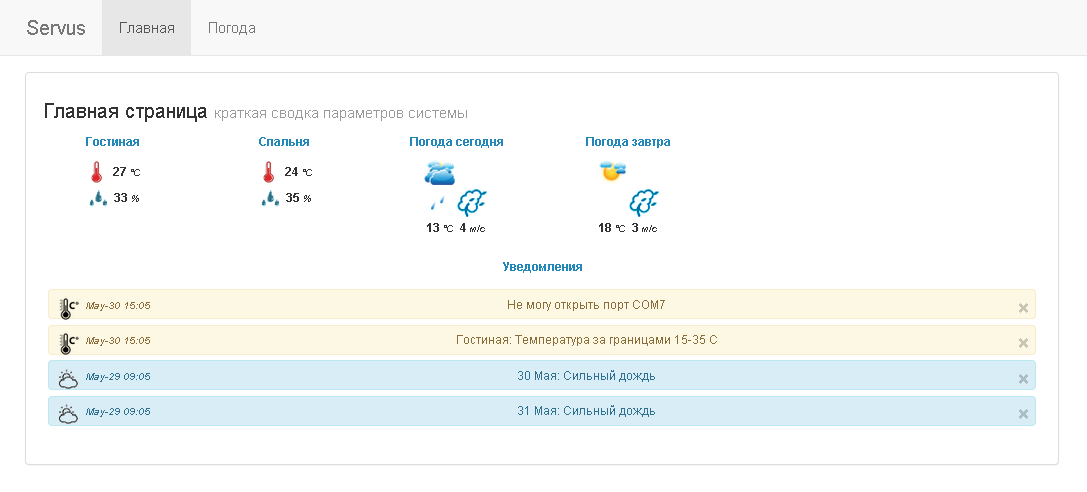
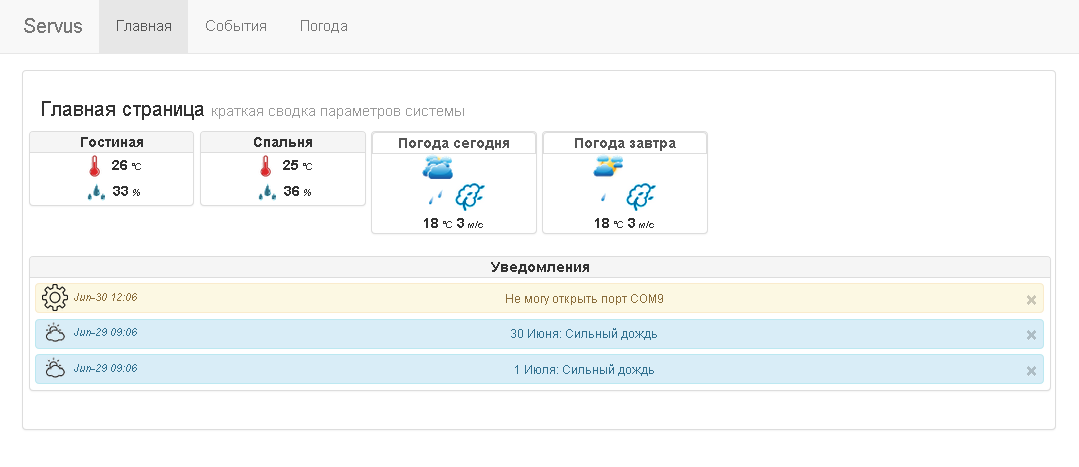
base: В класс UserProfile добавлено поле phone для отправки СМС-оповещений; events: В cron.py добавлен класс SMSSendJob для расслыки СМС-оповещений с помощью сервиса sms.ru. Для рассылки необходимо создать, или дополнить профиль в админке данными с сайта sms.ru: api_id и номер телефона; events: Доба

diff --git a/Servus/events/cron.py b/Servus/events/cron.py
@@ -1,11 +1,33 @@
 # coding=utf-8
 import smtplib
+from urllib2 import urlopen, URLError
 from django.core.mail import EmailMultiAlternatives
 from Servus.settings import EMAIL_HOST_USER
 from Servus.Servus import SITE_NAME
 from base.models import UserProfile
 from base.utils import CJB
 from events.models import Event
+from events.utils import event_setter
+
+servicecodes = {
+    100: 'Сообщение принято к отправке.',
+    200: 'Неправильный api_id',
+    201: 'Не хватает средств на лицевом счету',
+    202: 'Неправильно указан получатель',
+    203: 'Нет текста сообщения',
+    204: 'Имя отправителя не согласовано с администрацией',
+    205: 'Сообщение слишком длинное (превышает 8 СМС)',
+    206: 'Будет превышен или уже превышен дневной лимит на отправку сообщений',
+    207: 'На этот номер (или один из номеров) нельзя отправлять сообщения, либо указано более 100 номеров в списке получателей',
+    208: 'Параметр time указан неправильно',
+    209: 'Вы добавили этот номер (или один из номеров) в стоп-лист',
+    210: 'Используется GET, где необходимо использовать POST',
+    211: 'Метод не найден',
+    220: 'Сервис временно недоступен, попробуйте чуть позже.',
+    300: 'Неправильный token (возможно истек срок действия, либо ваш IP изменился)',
+    301: 'Неправильный пароль, либо пользователь не найден',
+    302: 'Пользователь авторизован, но аккаунт не подтвержден (пользователь не ввел код, присланный в регистрационной смс)',
+}
 
 
 class EmailsSendJob(CJB):
@@ -56,7 +78,7 @@ class EmailsSendJob(CJB):
 
                 events.update(email_sent=True)
             except smtplib.SMTPException as e:
-                print e
+                event_setter('system', 'Ошибка отправки письма: %s' % e, 3, delay=3)
 
 
 class SMSSendJob(CJB):
@@ -79,14 +101,24 @@ class SMSSendJob(CJB):
         """
 
         events = Event.objects.filter(event_imp__gte=3).exclude(sms_sent=True).order_by('-event_imp')
-        sms_apies = UserProfile.objects.exclude(sms_ru_id='').values_list('sms_ru_id', flat=True)
+        recipients = UserProfile.objects.exclude(sms_ru_id='').values().exclude(phone=None)
 
         txt_msg = ''
 
-        for e in events:
-            txt_msg += '%s/%s\n' % (e.event_datetime.strftime('%Y.%m.%d %H:%M'), e.event_descr)
+        if recipients:
+            for r in recipients:
+                for e in events:
+                    txt_msg = '[%s] %s' % (e.event_datetime.strftime('%b-%d %H:%M'), e.event_descr)
+                    url = 'http://sms.ru/sms/send?api_id=%s&to=%s&text=%s' % (r['sms_ru_id'], r['phone'], txt_msg)
+                    # В API sms.ru  в тексте сообщения использутся знаки "+" в качестве пробела
+                    url = url.replace(' ', '+')
+                    try:
+                        res = urlopen(url.encode('utf-8')).read().splitlines()
 
-        if events and sms_apies:
-            # Some code
-
-            sms_apies.update(sms_sent=True)
+                        if res is not None and int(res[0]) != 100:
+                            event_setter('system', 'Ошибка отправки СМС: %s' % servicecodes[int(res[0])], 3, delay=3)
+                        else:
+                            e.sms_sent = True
+                            e.save()
+                    except URLError as e:
+                        event_setter('system', 'Ошибка отправки СМС: %s' % e, 3, delay=3)

diff --git a/Servus/base/migrations/0013_auto__add_field_userprofile_phone.py b/Servus/base/migrations/0013_auto__add_field_userprofile_phone.py
@@ -1,0 +1,53 @@
+# -*- coding: utf-8 -*-
+from south.utils import datetime_utils as datetime
+from south.db import db
+from south.v2 import SchemaMigration
+from django.db import models
+
+
+class Migration(SchemaMigration):
+
+    def forwards(self, orm):
+        # Adding field 'UserProfile.phone'
+        db.add_column(u'base_userprofile', 'phone',
+                      self.gf('django.db.models.fields.PositiveIntegerField')(max_length=11, null=True, blank=True),
+                      keep_default=False)
+
+
+    def backwards(self, orm):
+        # Deleting field 'UserProfile.phone'
+        db.delete_column(u'base_userprofile', 'phone')
+
+
+    models = {
+        u'base.slideshow': {
+            'Meta': {'object_name': 'Slideshow'},
+            'album_path': ('django.db.models.fields.CharField', [], {'unique': 'True', 'max_length': '255'}),
+            u'id': ('django.db.models.fields.AutoField', [], {'primary_key': 'True'}),
+            'is_shown': ('django.db.models.fields.BooleanField', [], {'default': 'True'})
+        },
+        u'base.slideshowchanges': {
+            'Meta': {'object_name': 'SlideshowChanges'},
+            u'id': ('django.db.models.fields.AutoField', [], {'primary_key': 'True'}),
+            'mtime': ('django.db.models.fields.FloatField', [], {'default': '0.0'})
+        },
+        u'base.tab': {
+            'Meta': {'object_name': 'Tab'},
+            'app_name': ('django.db.models.fields.CharField', [], {'default': "'home'", 'max_length': '20'}),
+            u'id': ('django.db.models.fields.AutoField', [], {'primary_key': 'True'}),
+            'is_shown': ('django.db.models.fields.BooleanField', [], {'default': 'False'}),
+            'sub_title': ('django.db.models.fields.CharField', [], {'max_length': '100', 'null': 'True', 'blank': 'True'}),
+            'tab_name': ('django.db.models.fields.CharField', [], {'max_length': '20'}),
+            'title': ('django.db.models.fields.CharField', [], {'max_length': '50'})
+        },
+        u'base.userprofile': {
+            'Meta': {'object_name': 'UserProfile'},
+            'email': ('django.db.models.fields.EmailField', [], {'max_length': '75', 'null': 'True', 'blank': 'True'}),
+            u'id': ('django.db.models.fields.AutoField', [], {'primary_key': 'True'}),
+            'name': ('django.db.models.fields.CharField', [], {'max_length': '36'}),
+            'phone': ('django.db.models.fields.PositiveIntegerField', [], {'max_length': '11', 'null': 'True', 'blank': 'True'}),
+            'sms_ru_id': ('django.db.models.fields.CharField', [], {'max_length': '40', 'null': 'True', 'blank': 'True'})
+        }
+    }
+
+    complete_apps = ['base']

diff --git a/Servus/events/utils.py b/Servus/events/utils.py
@@ -73,7 +73,7 @@ def get_amount_events(request):
         return 0, 0
 
 
-def event_setter(event_src, event_descr, event_imp, td=24):
+def event_setter(event_src, event_descr, event_imp, delay=24):
     """
     Функция записи новых сообщений в БД (таблица base_event).
     В БД записываются только уникальные (сравнение event_descr) в пределах семи дней сообщения.
@@ -81,10 +81,10 @@ def event_setter(event_src, event_descr, event_imp, td=24):
     :param event_src: источник события
     :param event_descr: описание события (сообщение)
     :param event_imp: важность (от 0 до 4)
-    :param td: интервал добавления (в часах) аналогичной записи о событии
+    :param delay: интервал добавления (в часах) аналогичной записи о событии
     """
 
-    events = Event.objects.filter(event_datetime__gte=datetime.now() - timedelta(hours=td))
+    events = Event.objects.filter(event_datetime__gte=datetime.now() - timedelta(hours=delay))
 
     if event_descr not in events.values_list('event_descr', flat=True):
         Event.objects.create(event_src=event_src, event_descr=event_descr, event_imp=event_imp)

diff --git a/Servus/climate/cron.py b/Servus/climate/cron.py
@@ -92,10 +92,10 @@ class GetTempHumid(CJB):
                                         event_setter('climate', u'%s: Воздух слишком влажный (%d%%)' % (s.sensor_verb_name, h), 3, 1)
 
                             else:
-                                event_setter('climate', u'Датчик %s вернул неверные данные' % s.sensor_name, 0, 6)
+                                event_setter('system', u'Датчик %s вернул неверные данные' % s.sensor_name, 0, 6)
                         else:
-                            event_setter('climate', u'Ошибка получения данных с %s' % s.sensor_name, 0, 1)
+                            event_setter('system', u'Ошибка получения данных с %s' % s.sensor_name, 0, 1)
 
                     ser.close()
             except serial.SerialException:
-                event_setter('climate', u'Не могу открыть порт COM%s' % PORT, 3, 1)
+                event_setter('system', u'Не могу открыть порт COM%s' % PORT, 3, 1)

diff --git a/Servus/base/models.py b/Servus/base/models.py
@@ -17,6 +17,14 @@ class UserProfile(models.Model):
         blank=True,
         null=True
     )
+    phone = models.PositiveIntegerField(
+        max_length=11,
+        verbose_name='Номер телефона',
+        help_text='Номер в формате 7xxxyyyyyyy, где xxx - код оператора, yyyyyyy - номер телефона.<br>\
+            Номер телефона нужен для отправки сообщений через сервис sms.ru.',
+        blank=True,
+        null=True
+    )
     sms_ru_id = models.CharField(
         max_length=40,
         verbose_name='sms.ru api_id',

diff --git a/Servus/weather/weather_getter.py b/Servus/weather/weather_getter.py
@@ -1,6 +1,6 @@
 # coding=utf-8
 from xml.dom import minidom
-import urllib2
+from urllib2 import urlopen, HTTPError
 from datetime import datetime, timedelta
 
 
@@ -19,8 +19,8 @@ class WG(object):
 
     def parse_xml(self):
         try:
-            url_sock = urllib2.urlopen(self.wp_url)
-        except urllib2.HTTPError, err:
+            url_sock = urlopen(self.wp_url)
+        except HTTPError, err:
             print 'Opening %s...' % self.wp_url
             print 'urllib2 HTTPError: ', err.code
             return -1

diff --git a/Servus/Servus/settings.py b/Servus/Servus/settings.py
@@ -16,6 +16,7 @@ SESSION_COOKIE_AGE = 999999999
 CRON_CLASSES = [
     'base.cron.SlideshowJob',
     # 'base.cron.EmailsSendJob',
+    # 'events.cron.SMSSendJob',
     'climate.cron.GetTempHumid',
     'weather.cron.GetWeatherJob',
 ]

diff --git a/Servus/Servus/Servus.py b/Servus/Servus/Servus.py
@@ -5,4 +5,4 @@ SITE_NAME = 'Servus'
 SPEAKER_NAME = 'Servus'
 
 # Arduino COM port number
-PORT = 9
+PORT = 7
